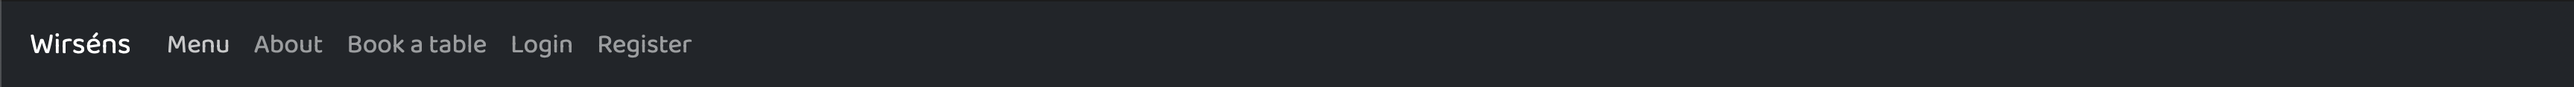
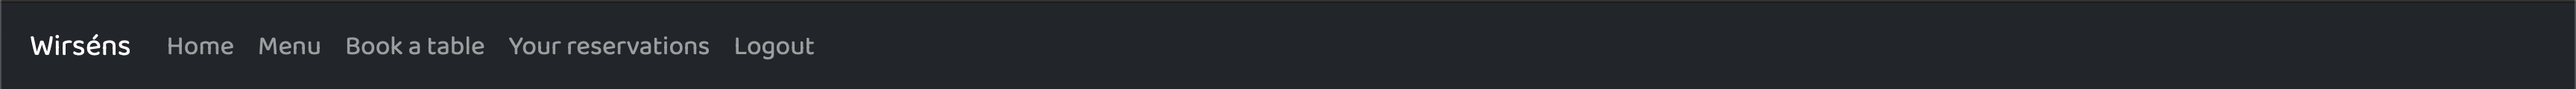
Update readme

Changed region(s): [[0.0, 0.4068, 0.3408, 0.6356], [0.1859, 0.6356, 0.2478, 0.661], [0.2788, 0.6356, 0.3098, 0.661]]

diff --git a/README.md b/README.md
@@ -22,7 +22,7 @@ A live version can be found [here](https://pp4-restaurant-project.herokuapp.com/
 
 ## **UX**
 
-I started with Strategy, thinking about who was going to use the website and what their goals would be. 
+I started with strategy, thinking about who was going to use the website and what their goals would be. 
 
 The target audience for this website is:
 
@@ -85,9 +85,17 @@ Navigation bar:
 
 ![Navigation bar image](readme/images/navbar.png)
 
+Welcome message:
+
+*  The home page welcomes the user and lets them know what the site is for.
+
+![Landing Page](readme/images/landing-image.png)
+
+
+
 Opening hours:
 
-* The home page welcomes the user and lets them know what the site is for. There is a table that shows the user the restaurants opening hours and contact information.
+* There is a table that shows the user the restaurants opening hours and contact information.
 
 ![Contact image](readme/images/contact.png)
 
@@ -205,7 +213,7 @@ For creating and storing users i used Django’s built in authentication system 
 |             | end_time     | Int           |
 
 
-For the book_time choices i had the following choices: 
+For the book_time choices i have the following choices: 
 
         (1050, '17:30'),
         (1065, '17:45'),
